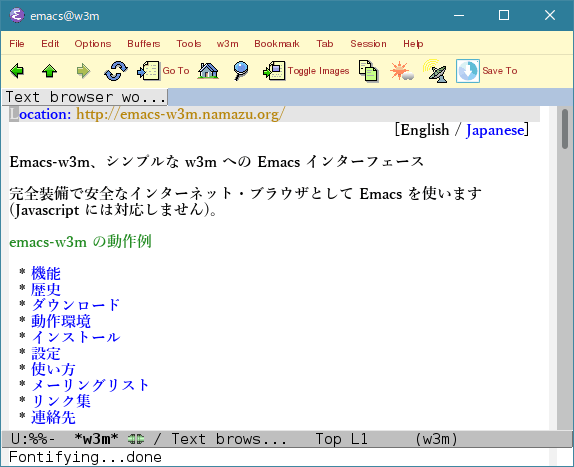
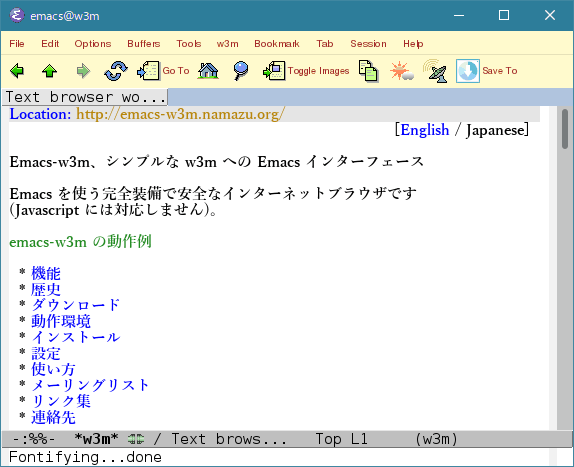
index-jaBB.html: New screenshot-jaBB.png: Renew

diff --git a/index-jaBB.html b/index-jaBB.html
@@ -1,87 +1,88 @@
 <!DOCTYPE HTML PUBLIC "-//W3C//DTD HTML 4.01 Transitional//EN">
 <html lang="en">
 <head>
-<meta http-equiv="Content-Type" content="text/html; charset=us-ascii">
+<meta http-equiv="Content-Type" content="text/html; charset=utf-8">
 <title>Text browser works on Emacs</title>
 </head>
 <body bgcolor="#EEEEEE">
-<p align="right">[English / <a href="index-jaBB.html">Japanese</a>]</p>
+<p align="right">[<a href="index-enBB.html">English</a> / Japanese]</p>
 
-<h1>Emacs-w3m, a simple Emacs interface to w3m.</h1>
+<h1>Emacs-w3m、シンプルな w3m への Emacs インターフェース</h1>
 
-Use emacs as a full-featured and secure internet browser! (Does not
-support javascript).
+Emacs を使う完全装備で安全なインターネットブラウザです (Javascript
+には対応しません)。
 
-<p><img src="screenshot-enBB.png" alt="Screenshot of how emacs-w3m works">
+<p><img src="screenshot-jaBB.png" alt="emacs-w3m の動作例">
 
 <p>
 <ul>
- <li><a href="#features">Features</a>
- <li><a href="#history">History</a>
- <li><a href="#download">Download</a>
- <li><a href="#requirements">Requirements</a>
- <li><a href="#installation">Installation</a>
- <li><a href="#configuration">Configuration</a>
- <li><a href="info/emacs-w3m.html">Usage</a>
- <li><a href="#mailing_list">Mailing List</a>
- <li><a href="#link">Links</a>
- <li><a href="#contact">Contact</a>
+ <li><a href="#features">機能</a>
+ <li><a href="#history">歴史</a>
+ <li><a href="#download">ダウンロード</a>
+ <li><a href="#requirements">動作環境</a>
+ <li><a href="#installation">インストール</a>
+ <li><a href="#configuration">設定</a>
+ <li><a href="info/emacs-w3m.html">使い方</a>
+ <li><a href="#mailing_list">メーリングリスト</a>
+ <li><a href="#link">リンク集</a>
+ <li><a href="#contact">連絡先</a>
 </ul>
 
 
 <hr>
-<h2><a name="features">Features</a></h2>
+<h2><a name="features">機能</a></h2>
 <ul>
- <li>Tabs</li>
- <li>Images</li>
- <li>HTTPS preferred</li>
- <li>Bookmark management</li>
- <li>Cookie management</li>
- <li>Session management</li>
- <li>History management</li>
- <li>Asynchronous operations</li>
- <li>Greasemonkey-type filtering</li>
- <li>Quick-search</li>
- <li>Elisp scripting</li>
- <li>More ...</li>
+ <li>タブ</li>
+ <li>画像</li>
+ <li>HTTPS 優先</li>
+ <li>ブックマーク管理</li>
+ <li>クッキー管理</li>
+ <li>セッション管理</li>
+ <li>履歴の管理</li>
+ <li>非同期動作</li>
+ <li>Greasemonkey 風フィルタ</li>
+ <li>クイック検索</li>
+ <li>Elisp スクリプト</li>
+ <li>もっと ...</li>
 </ul>
 
 <hr>
-<h2><a name="history">History</a></h2>
+<h2><a name="history">歴史</a></h2>
 
-This project has been in active development continuously since the
-1990's.
+このプロジェクトでは 1990年代から活発に開発が続けられています。
+<p>
+かつて Emacs/W3 という独自のプロジェクトがあり、その時代の Emacs
+で最も人気のあるウェブ・ブラウザだったのですが、
+その遅い動作に苦しめられました。そこで、伊藤彰則さんによる WWW
+の機能があるテキストモードのペイジャー
+<a href="http://w3m.sourceforge.net/index.en.html">w3m</a>
+を使って代替品を作ろうということになったのです。
 
-Originally, there had been a separate project <i>Emacs/W3</i> which in its
-time was the most popular web browser on Emacs, but it sufered from
-slow operation. The decision was made to create this alternative,
-based upon <b>Akinori Ito</b>'s
-<a href="http://w3m.sourceforge.net/index.en.html">w3m</a> text-mode
-pager which had WWW capability.
-
-As of 2018, the project has been actively developed and supported for
-over twenty years, but since 2005 it has been releasing updates in
-"rolling" manner, directly from it CVS repository (although
-un-official third-party mirrors exist on <a href=https://melpa.org/#/w3m>MELPA</a>
-and <a href=https://github.com/ecbrown/emacs-w3m>github</a>). Here's
-the history of the old milestones under the prior system of issuing
-'<i>stable</i>' releases:
-</p>
+2018年現在、プロジェクトは活発に開発を続け、
+20年以上に渡って持続していますが、2005年からは CVS
+リポジトリーから直接
+<a href="https://ja.wikipedia.org/wiki/ローリング・リリース">
+ローリング・リリース</a> による更新を行なっています
+(もっとも第三者による非公式なミラーが
+<a href=https://melpa.org/#/w3m>MELPA</a> と
+<a href=https://github.com/ecbrown/emacs-w3m>github</a> にありますが)。
+以下は過去に<i>安定</i>版のリリースが行なわれた経過点の歴史です:
 <ul>
- <li>CVS rolling release, from 2005 to 2018+
- <li><a href="ml/7990">Emacs-w3m-1.4.4 was released</a> on March 25th, 2005.
- <li><a href="ml/7039">Emacs-w3m-1.4.3 was released</a> on August 17th, 2004.
- <li><a href="ml/7004">Emacs-w3m-1.4.2 was released</a> on July 14th, 2004.
- <li><a href="ml/6989">Emacs-w3m-1.4.1 was released</a> on July 7th, 2004.
- <li>All services were restored on June 23rd, 2004.
-      All contents of this site and CVS repository had been throughly inspected.
- <li><a href="announce-en.txt">This site was cracked</a> on May 23rd, 2004.
- <li><a href="ml/6759">Emacs-w3m-1.4 was released</a> on April 29th, 2004.
+ <li>CVS ローリング・リリース (2005年〜2018年およびそれ以降)
+
+ <li><a href="ml/7990">emacs-w3m-1.4.4 公開</a> (2005年3月25日)
+ <li><a href="ml/7039">emacs-w3m-1.4.3 公開</a> (2004年8月17日)
+ <li><a href="ml/7004">emacs-w3m-1.4.2 公開</a> (2004年7月14日)
+ <li><a href="ml/6989">emacs-w3m-1.4.1 公開</a> (2004年7月7日)
+ <li>サービスの復旧が完了 (2004年6月23日)<br>
+     全てのコンテンツおよび CVS レポジトリの正当性は検証済み
+ <li><a href="announce-ja.txt">クラックされる</a> (2004年05月23日)
+ <li><a href="ml/6759">emacs-w3m-1.4 公開</a> (2004年4月29日)
 </ul>
 
 
 <hr>
-<h2><a name="download">Download</a></h2>
+<h2><a name="download">ダウンロード</a></h2>
 
 The official current version is always available from our own CVS
 repository. However, we recognize that it may be more convenient for
@@ -140,7 +141,7 @@ is also available.
 <p>
 
 <hr>
-<h2><a name="requirements">Requirements</a></h2>
+<h2><a name="requirements">必要なもの</a></h2>
 <ul>
 <li>All emacs versions<p>
 <ul>
@@ -244,7 +245,7 @@ library</a> included in the emacs-w3m distribution, the emacs package
   </ul>
 
 <hr>
-<h2><a name="installation">Installation</a></h2>
+<h2><a name="installation">インストール</a></h2>
 If you are installing from the un-official third-party MELPA
 repository, the install process follows the standard MELPA procedure.
 The rest of this section describes how to install manually from source.
@@ -332,7 +333,7 @@ meets <a href="#requirements">the requirements</a>.
 
 
 <hr>
-<h2><a name="configuration">Configuration</a></h2>
+<h2><a name="configuration">設定</a></h2>
 <p>
 Emacs-w3m has many configuration options, but the minimum that is required
 is just to put this line into your <code>~/.emacs</code> file:
@@ -361,7 +362,7 @@ or browse the emacs-w3m customization group within emacs.
 </p>
 
 <hr>
-<h2><a name="mailing_list">Mailing List</a></h2>
+<h2><a name="mailing_list">メーリングリスト</a></h2>
 <p>
 The project mailing list, <code>emacs-w3m&#64;namazu.org</code>, is
 bi-lingual Japanese / English. It is open to the public, and its
@@ -396,7 +397,7 @@ in the body to <code>emacs-w3m-ctl&#64;namazu.org</code>.
 
 
 <hr>
-<h2><a name="link">Related Links</a></h2>
+<h2><a name="link">リンク集</a></h2>
 <ul>
  <li><a href="http://w3m.sourceforge.net/index.en.html">w3m</a>
      <ul>
@@ -409,9 +410,9 @@ in the body to <code>emacs-w3m-ctl&#64;namazu.org</code>.
  <li><a href="http://www.lcdf.org/gifsicle/">gifsicle</a>
  <li><a href="http://www.dina.kvl.dk/~abraham/custom/">New custom</a>
  <li><a href="https://github.com/vermiculus/sx.el">sx.el</a>,
-  StackExchange interface for emacs
+ StackExchange の Emacs インターフェース
  <li><a href="https://github.com/vermiculus/magithub">magithub</a>,
- Github interface for emacs
+ Github の Emacs インターフェース
 </ul>
 
 
